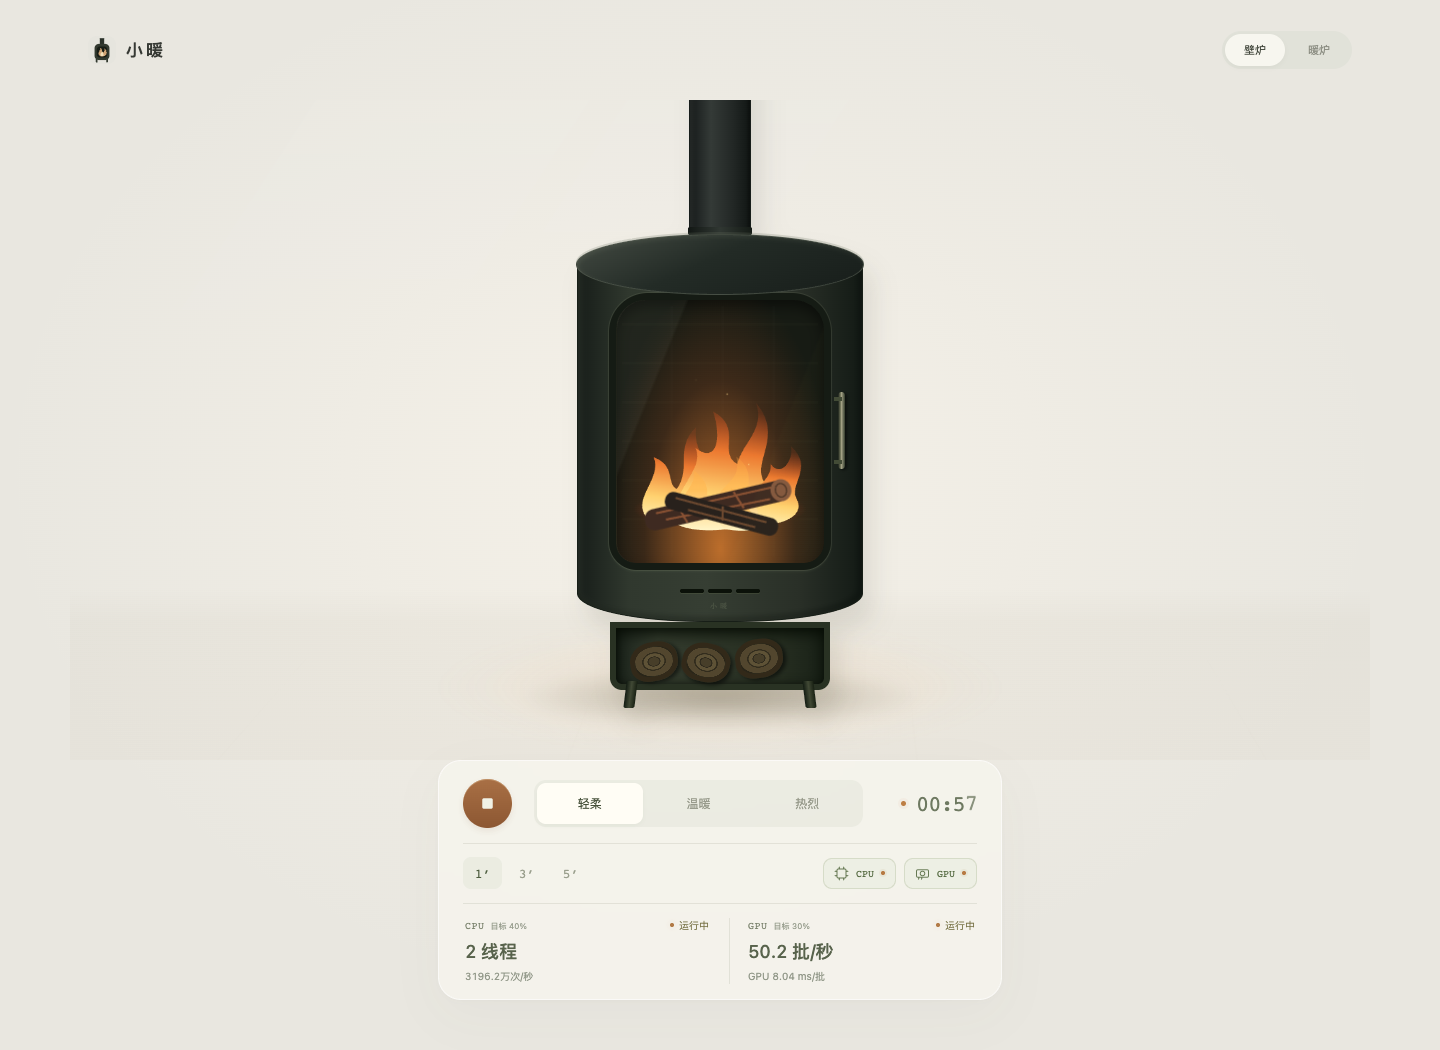
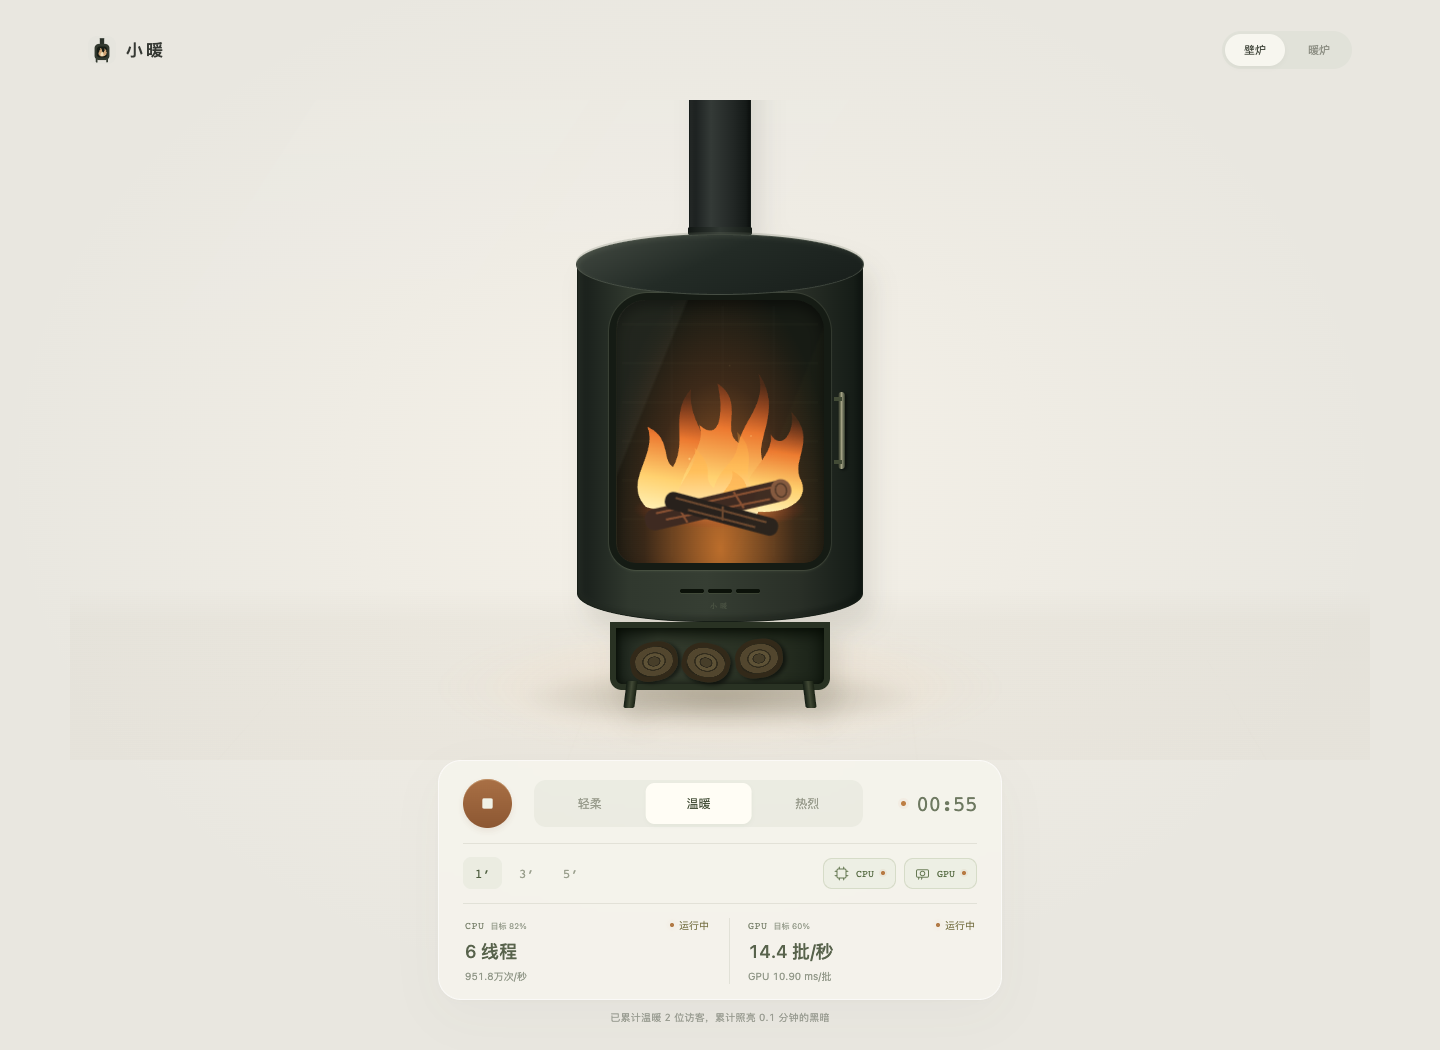
Add persistent anonymous visitor and lit-time totals

diff --git a/edge-functions/api/warmth.js b/edge-functions/api/warmth.js
@@ -1,0 +1,40 @@
+import { getStore } from '@edgeone/pages-blob';
+const idPattern = /^[a-f0-9]{8}-[a-f0-9]{4}-[a-f0-9]{4}-[a-f0-9]{4}-[a-f0-9]{12}$/;
+const runPattern = /^runs\/([a-f0-9-]{36})\/([a-f0-9-]{36})\/(\d+)$/;
+const publicHosts = new Set(['warm.gongfpp.icu', 'cyber-handwarmer-a0z0axp0.edgeone.dev']);
+const cache = new Map();
+export function aggregateRuns(blobs) {
+  const visitors = new Set(), runs = new Map();
+  for (const { key } of blobs) {
+    const match = runPattern.exec(key); if (!match || !idPattern.test(match[1]) || !idPattern.test(match[2])) continue;
+    const milliseconds = Number(match[3]); if (!Number.isSafeInteger(milliseconds) || milliseconds < 0 || milliseconds > 86400000) continue;
+    visitors.add(match[1]); const run = `${match[1]}/${match[2]}`;
+    runs.set(run, Math.max(runs.get(run) || 0, milliseconds));
+  }
+  return { visitors: visitors.size, sessions: runs.size, litMs: [...runs.values()].reduce((sum,value) => sum + value, 0) };
+}
+const json = (data,status=200) => new Response(JSON.stringify(data), { status, headers: { 'Content-Type':'application/json; charset=utf-8', 'Cache-Control':'no-store', 'X-Content-Type-Options':'nosniff' } });
+export async function handleStats(request, factory = getStore) {
+  const url = new URL(request.url), scope = publicHosts.has(url.hostname) ? 'public' : 'preview';
+  const name = scope === 'public' ? 'little-warmth-live-v1' : 'little-warmth-preview-v1';
+  if (!['GET','POST'].includes(request.method)) return json({ error:'method' },405);
+  if (request.method === 'POST' && request.headers.get('origin') !== url.origin) return json({ error:'origin' },403);
+  try {
+    const store = factory({ name, consistency:'strong' });
+    if (request.method === 'POST') {
+      const text = await request.text(); if (text.length > 1024) return json({ error:'size' },413);
+      let payload; try { payload = JSON.parse(text); } catch { return json({ error:'json' },400); }
+      const { visitorId, runId, litMs } = payload || {};
+      if (!idPattern.test(visitorId || '') || !idPattern.test(runId || '') || !Number.isSafeInteger(litMs) || litMs < 0 || litMs > 86400000) return json({ error:'data' },400);
+      // Immutable checkpoints: retries and out-of-order requests cannot double-count or roll back a run.
+      await store.set(`runs/${visitorId}/${runId}/${litMs}`, ''); cache.delete(name);
+    }
+    let entry = cache.get(name);
+    if (!entry || Date.now() - entry.time > 30000) {
+      const { blobs } = await store.list({ prefix:'runs/', consistency:'strong' });
+      entry = { time:Date.now(), data:aggregateRuns(blobs) }; cache.set(name,entry);
+    }
+    return json({ ...entry.data, scope });
+  } catch (error) { console.error('warmth-stats',error?.code || error?.name || 'unavailable'); return json({ available:false },503); }
+}
+export function onRequest({ request }) { return handleStats(request); }

diff --git a/public/community.js b/public/community.js
@@ -1,0 +1,43 @@
+// One anonymous browser ID, only created after the visitor switches the appliance on.
+const identifier = () => crypto.randomUUID();
+const publicHosts = new Set(['warm.gongfpp.icu','cyber-handwarmer-a0z0axp0.edgeone.dev']);
+const format = new Intl.NumberFormat('zh-CN',{maximumFractionDigits:1});
+export class Community {
+  run = null; timer = null; scope = null; totals = null;
+  constructor(node) { this.node=node; this.ready=this.load(); }
+  canTrack() { return !navigator.webdriver || (!publicHosts.has(location.hostname) && new URLSearchParams(location.search).has('stats_test') && this.scope==='preview'); }
+  async load() {
+    try { const response=await fetch('/api/warmth',{cache:'no-store'});if(!response.ok)throw Error();this.show(await response.json()); }
+    catch { if(!this.totals)this.node.hidden=true; }
+  }
+  show(data) {
+    if(!Number.isSafeInteger(data.visitors)||data.visitors<0||!Number.isFinite(data.litMs)||data.litMs<0)return;
+    this.scope=data.scope;
+    if(this.totals&&(data.visitors<this.totals.visitors||data.litMs<this.totals.litMs))return;
+    this.totals=data;
+    const minutes=Math.floor(data.litMs/6000)/10;
+    this.node.textContent=`已累计温暖 ${format.format(data.visitors)} 位访客，累计照亮 ${format.format(minutes)} 分钟的黑暗`;
+    this.node.hidden=false;
+  }
+  start() {
+    this.stop();
+    if(navigator.webdriver&&!new URLSearchParams(location.search).has('stats_test'))return;
+    let visitorId;
+    try { visitorId=localStorage.getItem('little-warmth-visitor');if(!visitorId){visitorId=identifier();localStorage.setItem('little-warmth-visitor',visitorId);} }
+    catch { visitorId=identifier(); }
+    const run=this.run={visitorId,runId:identifier(),began:performance.now()};
+    this.ready.then(()=>{if(this.run===run&&this.canTrack())this.report(run);});
+    this.timer=setInterval(()=>{if(this.run===run)this.report(run);},30000);
+  }
+  report(run,beacon=false,finalMs=null) {
+    if(!this.canTrack())return;
+    const payload=JSON.stringify({visitorId:run.visitorId,runId:run.runId,litMs:Math.min(86400000,Math.max(0,Math.floor(finalMs??performance.now()-run.began)))});
+    if(beacon&&navigator.sendBeacon?.('/api/warmth',new Blob([payload],{type:'application/json'})))return;
+    fetch('/api/warmth',{method:'POST',headers:{'Content-Type':'application/json'},body:payload,keepalive:true})
+      .then(async response=>{if(response.ok)this.show(await response.json());}).catch(()=>{});
+  }
+  stop(beacon=false) {
+    clearInterval(this.timer);this.timer=null;
+    const run=this.run;this.run=null;if(run)this.report(run,beacon,performance.now()-run.began);
+  }
+}

diff --git a/public/app.js b/public/app.js
@@ -3,10 +3,12 @@ import { deviceCapabilities } from './adaptive-policy.js';
 import { GPUController } from './gpu-controller.js';
 import { FireSound } from './fire-sound.js';
 import { Shutdown } from './shutdown.js';
+import { Community } from './community.js';
 const $ = id => document.getElementById(id);
 const cpu = new LoadController();
 const gpu = new GPUController();
 const sound = new FireSound();
+const community = new Community($('community'));
 const shutdown = new Shutdown($('heater'));
 const available = { cpu: deviceCapabilities().cpuAvailable, gpu: true };
 const sourceRequests = { cpu: 0, gpu: 0 };
@@ -76,6 +78,7 @@ function render() {
   document.querySelectorAll('button[data-skin]').forEach(button => button.setAttribute('aria-pressed', String(button.dataset.skin === state.skin)));
 }
 function stop(message = '', completed = false, immediate = false) {
+  community.stop(immediate || document.hidden);
   const animate = running() && !immediate && !document.hidden && !reducedMotion.matches;
   const token = ++state.token; sourceRequests.cpu++; sourceRequests.gpu++;
   shutdown.cancel(); state.phase = animate ? 'ending' : 'idle';
@@ -128,7 +131,7 @@ async function start() {
     await fallbackCPU(token);
   }
   if (state.token !== token) return;
-  state.phase = 'running'; sound.start(state.mode, state.skin); lastSecond = null; tick(); ticker = setInterval(tick, 100); render();
+  state.phase = 'running'; community.start(); sound.start(state.mode, state.skin); lastSecond = null; tick(); ticker = setInterval(tick, 100); render();
 }
 cpu.onConfig = renderTelemetry;
 cpu.onTelemetry = renderTelemetry; gpu.onTelemetry = renderTelemetry;

diff --git a/public/style.css b/public/style.css
@@ -76,3 +76,10 @@ body[data-skin=retro] #heater[data-ending=true] .retro-pilot{animation:pilot-rel
 @keyframes coil-relight{0%,12%{opacity:var(--coil-start,1)}27%{opacity:calc(var(--coil-start,1)*.35)}40%{opacity:0}49%{opacity:.85}56%{opacity:.55}64%{opacity:.75}76%,100%{opacity:0}}
 @keyframes pilot-relight{0%{opacity:.9}20%,40%{opacity:.1}49%,64%{opacity:.75}76%,100%{opacity:.12}}
 @media(max-width:360px){.readout-label{gap:4px}.compute-target{font-size:7px}.readout-heading{gap:4px}.compute-status{font-size:9px;gap:4px}}
+.community{max-width:620px;margin:0 auto;padding:0 18px max(12px,env(safe-area-inset-bottom,0px));font-size:10px;line-height:18px;color:#9a9d92;text-align:center;letter-spacing:.2px;font-variant-numeric:tabular-nums}
+.community[hidden]{display:block;visibility:hidden;min-height:30px}
+.controls{margin-bottom:8px}
+@media(max-width:700px){.room{height:clamp(205px,calc(100svh - 390px - env(safe-area-inset-top,0px) - env(safe-area-inset-bottom,0px)),550px)}.community{font-size:9px;line-height:17px}}
+@media(max-width:360px) and (max-height:650px) and (orientation:portrait){.heater{transform:scale(.39)}}
+@media(prefers-reduced-motion:reduce) and (max-width:360px) and (max-height:650px) and (orientation:portrait){.heater{transform:scale(.39)!important}}
+@media(max-height:540px) and (orientation:landscape){.room{height:calc(100svh - 64px)}.community{position:absolute;bottom:max(6px,env(safe-area-inset-bottom,0px));right:max(20px,env(safe-area-inset-right,0px));width:48%;padding:0;font-size:8px;line-height:14px;letter-spacing:0}.community[hidden]{min-height:14px}}

diff --git a/public/index.html b/public/index.html
@@ -69,6 +69,7 @@
         <div class="compute-readout" id="gpu-readout" data-status="disabled"><div class="readout-heading"><span class="readout-label">GPU<small class="compute-target" id="gpu-target">目标 30%</small></span><span class="compute-status" id="gpu-status" role="status">已关闭</span></div><div class="compute-value" id="gpu-value">—</div><div class="compute-metric" id="gpu-metric"></div></div>
       </div>
     </section>
+    <p class="community" id="community" hidden></p>
   </main>
   <noscript><p class="noscript">请启用 JavaScript。</p></noscript>
 </body>

diff --git a/docs/deployment.md b/docs/deployment.md
@@ -6,13 +6,14 @@ EdgeOne 默认访问地址：<https://cyber-handwarmer-a0z0axp0.edgeone.dev/>。
 
 正式域名的 CNAME 为 `warm.gongfpp.icu.pages.dnsoe5.com`，已配置自动验证的免费 HTTPS 证书。实际访问应以域名与证书检查结果为准。
 
-项目是纯静态网站，不需要服务器、数据库或环境变量。先运行：
+网页使用静态托管，累计统计使用同项目的 EdgeOne 边缘函数与 Blob 存储，无需自建服务器或配置密钥。先运行：
 
 ```sh
+npm ci
 npm run build
 ```
 
-`dist/` 里包含网站所需的 HTML、CSS、JavaScript 和图标。构建会给资源文件名加入内容指纹，并同步更新模块与 Worker 路径，避免发布后混入旧版边缘缓存。源代码、README 与截图不需要上传到托管目录。
+`dist/` 里包含网页资源、`edge-functions/api/warmth.js` 和供平台安装函数依赖的 `package.json`。部署时保留完整目录结构，平台会编译函数并注入 Blob 的项目认证。只上传 HTML 等静态文件仍可使用暖炉，但不会显示累计统计。构建给资源文件名加入内容指纹，避免发布后混入旧版缓存。README 与截图不需要上传。
 
 ## 使用 EdgeOne CLI
 
@@ -38,7 +39,24 @@ CLI 使用本机登录状态，不要把 Token 放进代码、提交记录或公
 
 在项目的域名管理中添加自己的域名，按控制台给出的实际 CNAME 配置 DNS。只修改对应子域名记录，不替换其他网站的解析。待解析验证和 HTTPS 证书签发完成后，再使用自己的域名访问。
 
-如果服务器单独配置了 CSP，应允许同源模块与 Worker：`script-src 'self'`、`worker-src 'self'` 与 `style-src 'self'`。JavaScript 文件需要正确的 MIME 类型。
+如果服务器单独配置了 CSP，应允许同源模块与 Worker：`script-src 'self'`、`worker-src 'self'`、`connect-src 'self'` 与 `style-src 'self'`。JavaScript 文件需要正确的 MIME 类型。
+
+## 累计统计
+
+`GET /api/warmth` 返回 `{ visitors, sessions, litMs, scope }`。主动开启后 `POST` 随机 `visitorId`、`runId` 与本次累计 `litMs`，每 30 秒和停止时报告；隐藏或离开时尝试发送最后一份。异常关闭或网络失败可能丢失最后一个间隔的数据，不回填猜测值。展示时间以 0.1 分钟为单位向下取整。
+
+Blob 的 `little-warmth-live-v1` 命名空间保存正式域名和项目默认域名的数据；其他预览域名使用 `little-warmth-preview-v1`。部署不清空存储。没有历史埋点，不导入或补造旧数字。正式站自动化验收不写入统计。
+
+存储键为 `runs/<visitor>/<run>/<累计毫秒>`，汇总取每次开启的最大值，再按浏览器标识去重。这个方法不依赖读后加一，重试、乱序和并发上报不会重复累加时长。实例内读取缓存 30 秒，写入后失效；当前小站按键列表聚合，大规模增长后应另做汇总。该匿名统计不是防刷或严格人数认证。
+
+本地临时内存统计（重启清零，不连接正式存储）：
+
+```sh
+npm run build
+STATS_LOCAL=1 PORT=4174 node scripts/serve.mjs dist
+```
+
+自动化测试使用 `TEST_URL=http://127.0.0.1:4174 npm run verify:community`；浏览器写入验证仅对非正式域名的 `?stats_test=1` 且 API 确认 `preview` 时启用。正式域名始终排除自动化上报。
 
 ## 发布后检查
 
@@ -47,5 +65,6 @@ CLI 使用本机登录状态，不要把 Token 放进代码、提交记录或公
 - 切换标签 / 应用后停止，返回时不自动重启。
 - 仅看炉火模式不创建计算 Worker。
 - 手机没有横向溢出，HTTPS 正常。
+- `/api/warmth` 返回 JSON 与正确 scope，累计小字可见；失败时不显示占位数字。
 
-官方资料：[EdgeOne CLI](https://pages.edgeone.ai/document/edgeone-cli)、[部署流程](https://pages.edgeone.ai/document/deployment-overview)、[域名说明](https://pages.edgeone.ai/document/domain-overview)。
+官方资料：[EdgeOne CLI](https://pages.edgeone.ai/document/edgeone-cli)、[Blob 存储](https://pages.edgeone.ai/document/blob-storage)、[边缘函数](https://pages.edgeone.ai/document/edge-functions)、[域名说明](https://pages.edgeone.ai/document/domain-overview)。统计展示参考了 [eo-counter](https://github.com/weigo6/eo-counter) 对访问量与独立访客的区分，页面只保留用户需要的一行累计信息。

diff --git a/docs/development.md b/docs/development.md
@@ -1,6 +1,6 @@
 # 开发说明
 
-原生 HTML / CSS / JavaScript modules，无运行依赖。生产构建按内容为资源生成文件名，同步更新模块和 Worker 引用；`asset-manifest.json` 用于核对产物。
+网页为原生 HTML / CSS / JavaScript modules，无浏览器端依赖。累计统计函数使用 `@edgeone/pages-blob`。生产构建按内容为资源生成文件名，同步更新模块和 Worker 引用；`asset-manifest.json` 用于核对产物。
 
 ## 硬件信息的边界
 
@@ -110,3 +110,9 @@ CPU 活动线程仅统计最近约 2.2 秒内回报当前版本且有计算的 W
 CPU/GPU 各自的目标值放在状态行标题旁，来自同一份 `MODES`：轻柔 40% / 30%，温暖 82% / 60%，热烈 85% / 85%。GPU 引擎直接读取相同的 `gpuDuty`，避免显示与实际配置脱节。这些是目标工作比例，仍不显示或声称整机使用率。
 
 问号入口、说明 dialog、说明用的数据节点和结束 toast 已从页面移除，使用与运行边界留在 README。验证入口 `npm run verify:ending` 覆盖真实时间三段动作、先停止计算、取消和重启、两种皮肤、隐藏清理、减少动态效果、定时结束、档位目标和 WebKit 手机视口。
+
+## 匿名累计（2.6）
+
+核心体验是控制区下方一行灰字：「已累计温暖 xx 位访客，累计照亮 xx 分钟的黑暗」。没有新增说明入口。`community.js` 仅在应用进入 `running` 后创建匿名标识并开始计时，在 `stop()` 开始处结束，启动等待和熄火动画不计入；纯展示仍计点亮时间。隐藏、离开、冻结沿用原有立即停止入口。
+
+验收条件：首次访问只读取；主动开启后才计访客；同浏览器多次开启只计一位；不同开启的时长相加，同次开启取最大累计值，乱序和重试不重复累加。停止后时长不再增长；接口失败隐藏该行；两种皮肤、窄屏和横屏不遮挡控件。预览存储与正式存储隔离，正式自动化验收不写数据。实现与验证入口分别为 `edge-functions/api/warmth.js` 和 `npm run verify:community`，部署与统计口径见部署说明。
